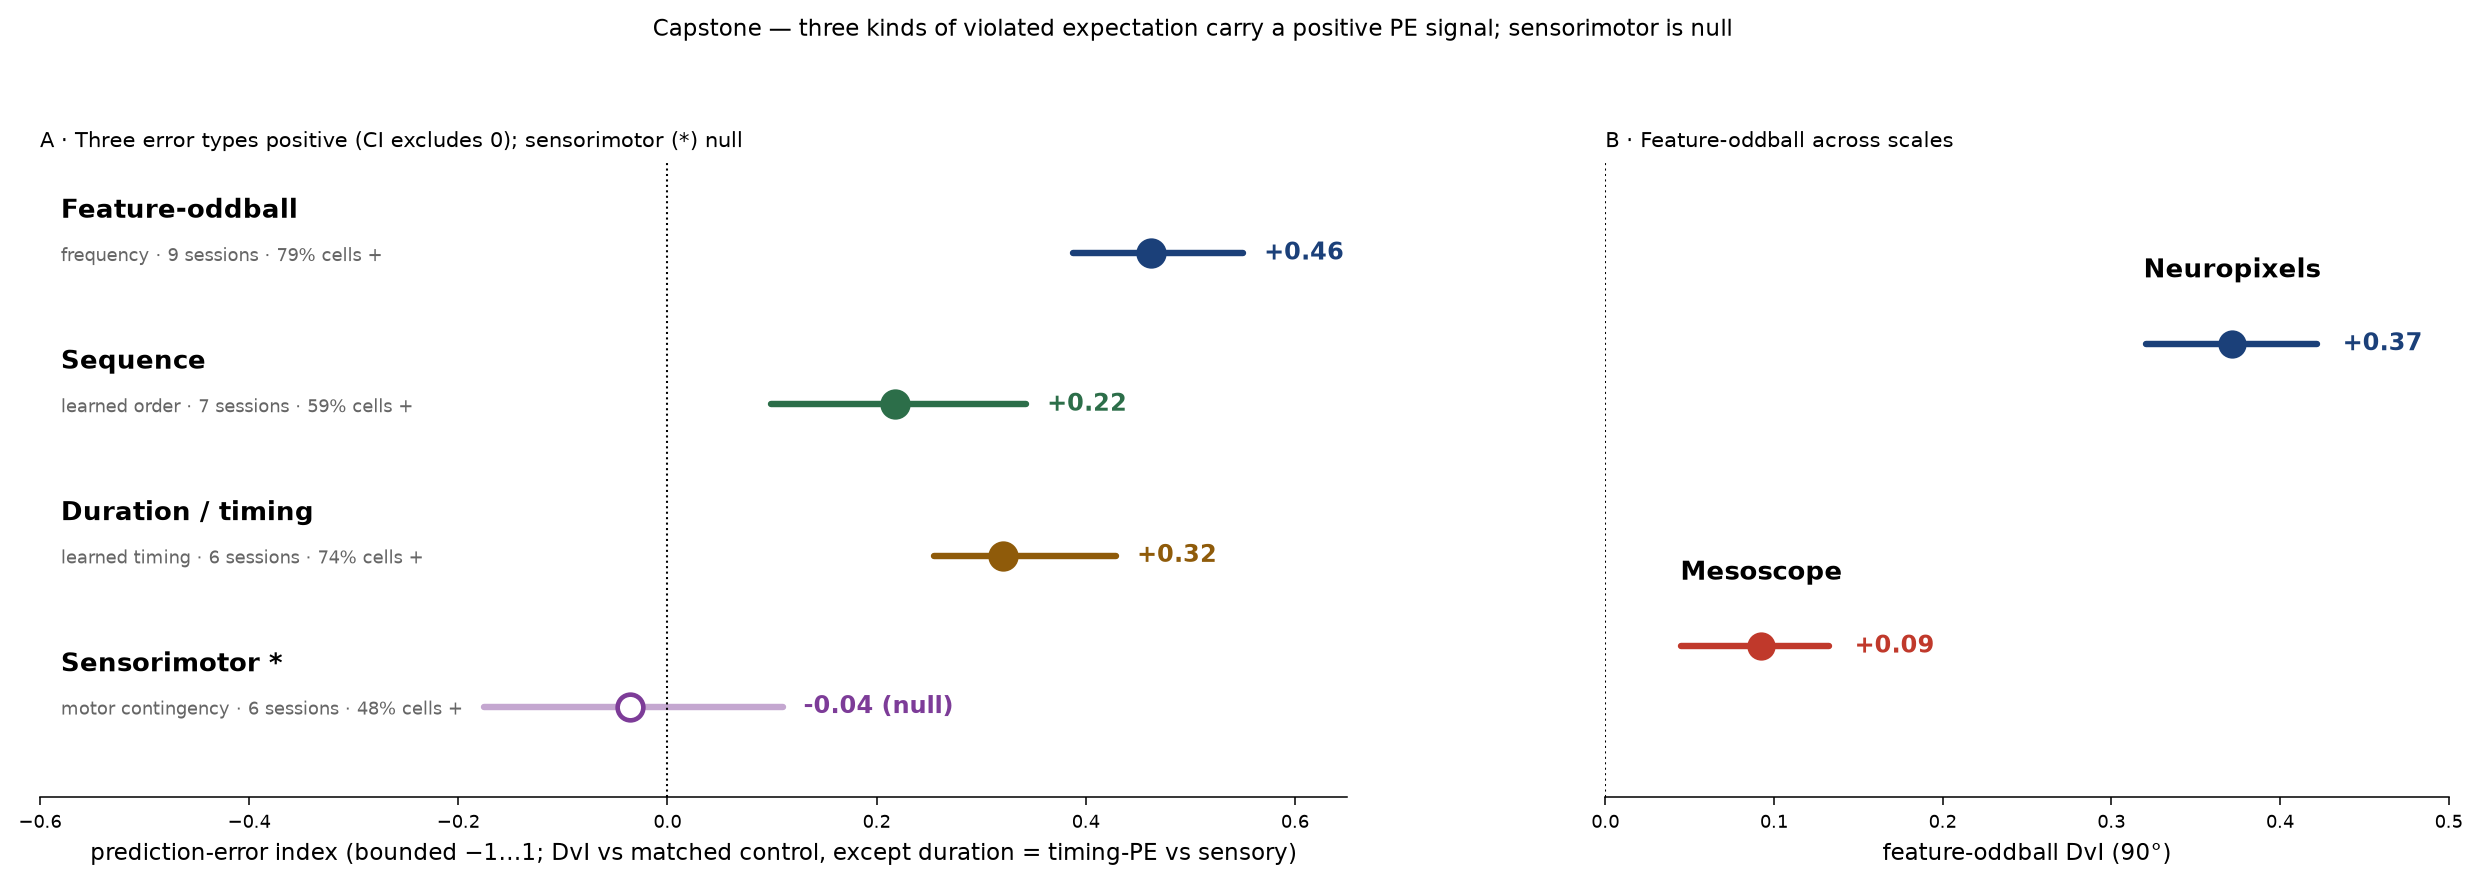
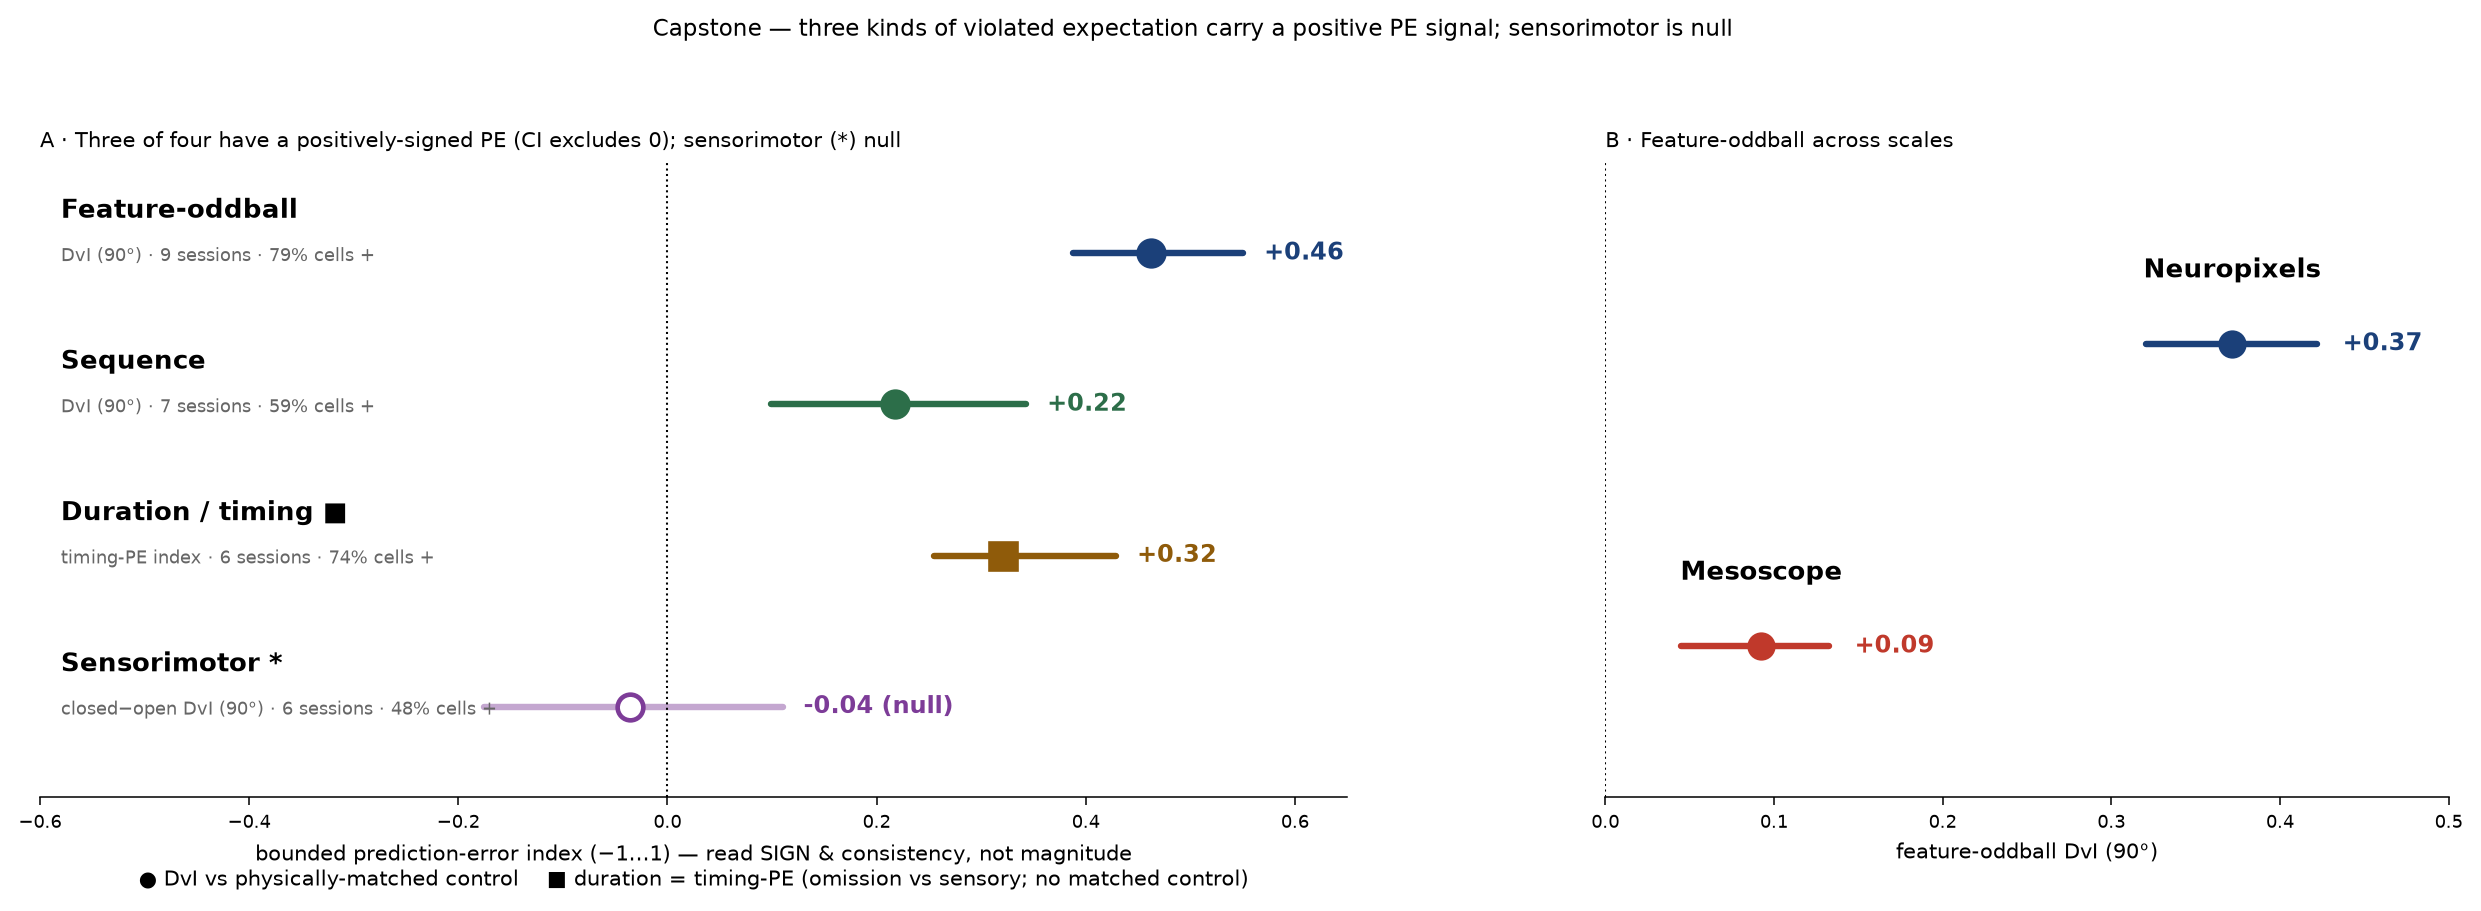
Capstone: make the duration timing-PE estimand explicit and traceable
Audit point: the capstone plots four rows on one bounded -1..1 axis, but the duration row's
value had no traceable generating expression (the notebook computed omission Hz, +0.97) while the
capstone CSV called 0.321 a "timing-PE index" — so a reader couldn't see where 0.321 came from,
and the shared axis invited a magnitude comparison across non-identical estimands.

What I agree with and fixed:
- TRACEABILITY (valid): the bounded timing-PE index now has an explicit generating cell in
  duration_mismatch_ecephys.ipynb — timing_pe_index = om_pe/(|om_pe|+|std_r|) — persisted to
  data/duration_timing_pe.parquet (per-unit om_pe, std_r, timing_pe_index). Validated end-to-end
  (median +0.32, matches the committed capstone value). The +0.97 Hz scalar and the +0.32 bounded
  index are now both shown, with the relationship spelled out.
- COMPARABILITY framing (partly valid): the axis was already captioned "direction not magnitude,"
  but the duration row looked identical to the DvI rows. Now the duration marker is a SQUARE (vs
  circles for DvIs), its row shows the metric name ("timing-PE index"), and the axis legend states
  the two estimands explicitly. The caption now says the relative bar lengths are deliberately not
  an effect-size ranking.

Where the critique was partly off (communicated better rather than "fixed"):
- The CSV already labeled the duration metric "timing-PE index" (not "DvI"), and 0.321 IS a bounded
[…]

diff --git a/README.md b/README.md
@@ -52,16 +52,23 @@ The project's four error-type prediction-error contrasts, on one axis (the eight
 numbered Results below expand these plus the cross-scale and anatomical analyses).
 Each row of panel A is a different way of making a stimulus *unexpected*, expressed
 as a bounded −1…+1 index so the four can share an axis. **The rows are not the
-identical construction, and the axis compares direction, not magnitude.** Three rows
-(feature-oddball, sequence, sensorimotor) are DvIs — the deviant response relative to
-a **physically-matched control stimulus**, (R_dev−R_ctrl)/(|R_dev|+|R_ctrl|). The
-duration row is a **timing-PE index** — the omission response at the expected onset
-time (there is *no* stimulus, so no physically-matched control is possible) normalized
-by the standard sensory response, om/(|om|+|std|). Both are bounded to −1…+1 and both
-put a surprise-related response over a response-magnitude denominator, but a duration
-+0.32 and a feature-oddball +0.45 are not strictly the same quantity — so read the
-panel as **"which error types produce a positively-signed PE and how consistently,"**
-not as a strength ranking. On that reading, three of four are positive with CIs
+identical construction, and the axis compares direction and consistency, not magnitude
+— so the relative bar lengths are deliberately not interpretable as effect-size
+ranking.** Three rows (feature-oddball, sequence, sensorimotor, drawn ●) are DvIs — the
+deviant response relative to a **physically-matched control stimulus**,
+(R_dev−R_ctrl)/(|R_dev|+|R_ctrl|). The duration row (drawn ■, distinct marker) is a
+**timing-PE index** — the omission response at the expected onset time (there is *no*
+stimulus, so no physically-matched control is possible) normalized by the same units'
+**standard sensory response**, om_pe/(|om_pe|+|std_r|). The underlying duration Result
+is reported in Hz (+0.97 Hz omission response over +1.63 Hz standard); the +0.32 here
+is that ratio put on the bounded scale — its **generating expression now lives in
+`duration_mismatch_ecephys.ipynb`** (the `timing_pe_index` cell) and is persisted in
+`data/duration_timing_pe.parquet`, so the capstone value is traceable end-to-end. Both
+index families are bounded to −1…+1 and both put a surprise-related response over a
+response-magnitude denominator, but a duration +0.32 and a feature-oddball +0.45 are
+**not the same quantity** (different denominators, different reference). Read the panel
+as **"which error types produce a positively-signed PE and how consistently,"** not as
+a strength ranking. On that reading, three of four are positive with CIs
 excluding zero (sensorimotor is null):
 
 | error type | expectation set by | PE index | 95 % CI (hierarchical) | sessions | cells + |
@@ -138,7 +145,10 @@ is two-stage. Three of the ecephys Result notebooks — `oddball_confirmatory_ec
 `sequence_mismatch_ecephys`, and `duration_mismatch_ecephys` — stream their NWB files from DANDI
 and write the **per-unit table** they compute (`data/oddball_confirmatory_units.parquet`,
 `data/sequence_units.parquet`, `data/duration_units.parquet`); the corresponding per-error-type
-index in the capstone CSV is the pooled DvI/timing-PE of that table. The sensorimotor row and the
+index in the capstone CSV is the pooled DvI/timing-PE of that table. For duration specifically,
+the notebook also writes `data/duration_timing_pe.parquet` carrying the per-unit `om_pe`, `std_r`,
+**and** the bounded `timing_pe_index = om_pe/(|om_pe|+|std_r|)` — so the capstone's +0.32 timing-PE
+value has an explicit generating expression, distinct from the +0.97 Hz scalar the Result reports. The sensorimotor row and the
 cross-scale columns are computed in their own notebooks (`sensorimotor_mismatch_ecephys` and the
 cross-scale set) but those do **not** yet persist a per-unit table — their capstone values trace to
 the committed summary CSVs, not to a regenerated parquet. The capstone figure is rendered from the
